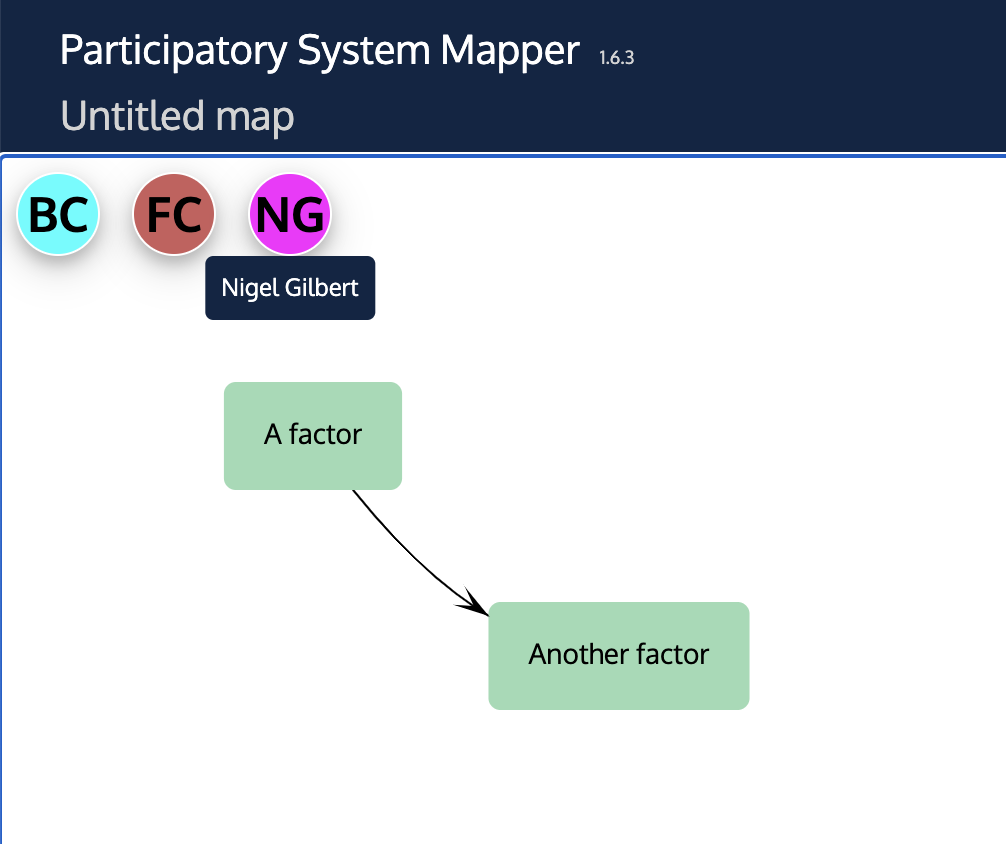
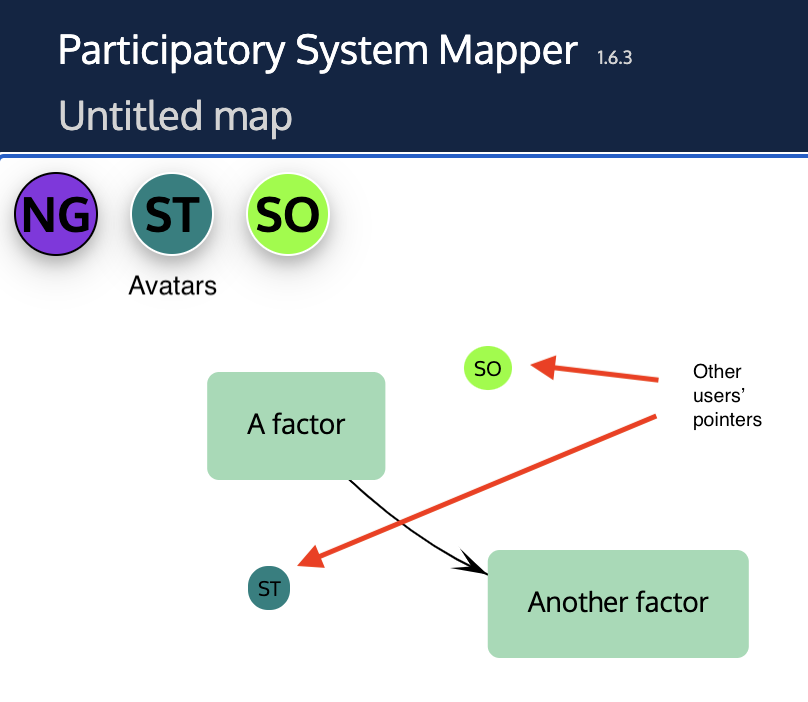
Using grid for help page, and added subsections to contents

diff --git a/html/help.html b/html/help.html
@@ -122,7 +122,7 @@
 <p><img src="/doc/images/WorldCup2019example.png" alt="World Cup 2019 Example" /></p>
 <h2 id="installation">Installation</h2>
 <p>No installation on your computer is needed. The software is a web app, which means that it can be accessed using a web browser by pasting this link into the address bar:</p>
-<p><a href="https://cress.soc.surrey.ac.uk/prsm/prsm.html">https://cress.soc.surrey.ac.uk/prsm/prsm.html</a></p>
+<p><a href="https://prsm.uk/prsm.html">https://prsm.uk/prsm.html</a></p>
 <p>You need a modern web browser such as Chrome, Firefox, Microsoft Edge or Safari. It will not work with Internet Explorer.</p>
 <p>The software is free and available under an <a href="https://choosealicense.com/licenses/mit/">MIT</a> license.</p>
 <h2 id="basic-use">Basic use</h2>
@@ -145,24 +145,27 @@
 <li><strong>Bin</strong>. First, select a factor or a link by clicking on it. Note that the selected factor or link gains a shadow and is listed in the status bar at the bottom of the window. Then click on the Bin button - the factor or link is deleted. The Undo button will restore it if you deleted it by mistake.</li>
 <li><strong>Share</strong>. Shows a dialog box with a web link that you can copy and send to someone else. If they then access that link, they will see your network and can edit and add to it. See <a href="#sharing">Sharing</a> below.</li>
 <li><strong>Open file</strong>. Read in a file containing a network from your computer drive. See <a href="#file-formats">below</a> for supported file formats. The content of the file replaces the network in the browser.</li>
-<li><strong>Save file</strong>. Save the network in a file on your computer. The file is saved in the app's own format, or if you click on the small triangle next to the button, you can choose to save in GML (Graph Markup Language) or CSV (Comma Separated Values) formats.</li>
+<li><strong>Save file</strong>. Save the network in a file on your computer. The file is saved in the app's own format, or if you click on the small triangle next to the button, you can choose to save an image of the map as an a .PNG file, or the map data in GML (Graph Markup Language) or CSV (Comma Separated Values) formats.</li>
+<li><strong>Search</strong>. Search for factors by name.</li>
 <li><strong>Help</strong> Display this help page in a separate window.</li>
 <li><strong>Settings</strong>. Opens a panel that allows much more customisation and exploration of the network (see <a href="#styling-the-map">Styling the map</a> below).</li>
 </ul>
-<p>To select a factor or a link, click on it. To select more than one, click on one factor or link and then <em>hold down</em> the pointer over the other. At the bottom of the window is the status bar, which will show which factors and links have been selected.</p>
+<p>To select a factor or a link, click on it. To select more than one, click on one factor or link and then <em>hold down</em> the pointer over the other. Or you can hold down the control (CTRL) key and click to add to the selection. At the bottom of the window is the status bar, which will show which factors and links have been selected. Clicking anywhere on the background will deselect the factors and links.</p>
 <p>Also at the bottom of the window on the right is a slider that will adjust the magnification: slide to the right to make the factors and links larger and to the left to make them smaller (or click on the + and - signs). To return the network to a size that will fit neatly in the window, double click anywhere on the network background.</p>
+<p>Holding down the Shift key and then moving the mouse pointer will show a 'magnifying glass' with an enlarged view of the part of the map under the pointer. You need to be using a keyboard for this.</p>
 <p>Each node can be moved across the network pane by selecting it and dragging. The whole network can be moved by dragging the background.</p>
 <h3 id="sharing">Sharing</h3>
 <p>If you use the link above to start the app, a new room is created for you. When you click on the share icon, a dialog box is shown that includes the name of the room in the link that is displayed:</p>
 <p><img src="/doc/images/prsm-share.png" alt="Sharing box" /></p>
 <p>Click the button to copy the web link to the clipboard, and then paste the link into an email or a text message. or just tell other participants the name of the room (which is a randomly generated set of 4 groups of three capital letters separated by hyphens). When they access the link, they will see whatever is in your app window.</p>
-<p>When there are others in the room, the initial letter of their name appears in a circle at the top left - their avatar. If you hover the mouse pointer over the circle, their full name is shown (their real name or the name they have been given by the app). If they don't do anything for 15 minutes, the avatar fades and, if they close thier browser window, it disappears.</p>
+<p>There are two options for the sharing link. If you check the 'Clone map' box, the link will be to the map in a new room - any changes made to this new map will <em>not</em> happen in the original room. If you click the 'View only' box, the recipient of the link will not be able to make any changes to the map.</p>
+<h3 id="avatars-and-pointers">Avatars and pointers</h3>
+<p>When there are others in the room, the initial letters of their name appear in a circle at the top left - their <em>avatar</em>. If you hover the mouse pointer over the circle, their full name is shown (their real name or the name they have been given by the app). If they don't do anything for 15 minutes, the avatar fades and, if they close their browser window, it disappears.</p>
+<p>The other users' mouse pointers are shown on the map. As you move your mouse pointer (or finger on a touchscreen), a small disc containing your initials moves on every other users' map correspondingly. If you are talking with other users by audio or video link, you can use your mouse to point to things of interest, and the other users can see what you are pointing at.</p>
 <!-- ![Avatars](/doc/images/avatars.png) -->
 
 <img src="/doc/images/avatars.png" width="400">
 
-<p>If you wnat to show someone a map, but don't want them to alter it in any way, send them the link with <code>&amp;viewing</code> appended, for instance:</p>
-<p><a href="https://cress.soc.surrey.ac.uk/prsm/prsm.html?room=CPC-AJH-UQP-ZWP&amp;viewing">https://cress.soc.surrey.ac.uk/prsm/prsm.html?room=CPC-AJH-UQP-ZWP&amp;viewing</a></p>
 <h3 id="using-the-mouse-and-touch">Using the mouse and touch</h3>
 <p>You can use the following mouse actions (or finger or pencil gestures on a tablet):</p>
 <ul>
@@ -173,6 +176,9 @@
 <li>a <em>click</em> on the background de-selects all factors and links.</li>
 <li><em>dragging</em> the background moves the whole map.</li>
 <li>a <em>double-click</em> on the background zooms the whole map in or out so that it neatly fits the window.</li>
+<li>holding down the <em>shift</em> key and moving the mouse shws a loupe or magnifying glass to see small details of the map.</li>
+<li>holding down the <em>option</em> or ALT key and clicking on the background is a shortcut for adding a new factor</li>
+<li>holding down the <em>option</em> or ALT key and clicking on a factor is a shortcut for adding a link - the pointer will becoem a cross and you can then drag from the factor to another factor to create the link.</li>
 </ul>
 <h3 id="formatting-factors-and-links">Formatting factors and links</h3>
 <p>Double clicking on a factor or a link will bring up a small dialog that enables you to change the design of the factor or link - its colour, shape or the label.</p>
@@ -192,16 +198,16 @@
 <p><img src="/doc/images/ChatWindowButton.gif" alt="Chat Window Button" /></p>
 <h3 id="file-formats">File formats</h3>
 <p>The app can read files in its native format (files with the suffix '.prsm'), or in <a href="http://graphml.graphdrawing.org/">GRAPHML</a> (.graphml), <a href="https://en.wikipedia.org/wiki/Graph_Modelling_Language">GML</a> (.gml) or <a href="https://en.wikipedia.org/wiki/Comma-separated_values">Comma Separated Values</a> (.csv) formats. A CSV file must contain a two columns of values. Each row represents a link. In the first column is the label of the factor from which the link points, and in the second column is the label of the factor the link is pointing to. This very simple format is designed to allow straightforward imports from other software. Optionally, the third and fourth columns may contain an integer between 1 and 9 - if they do, the factor is styled with that style (styles are numbered from top left to bottm right as shown on the <a href="#factors-tab">Factors tab</a>). The fifth column may contain the style number for the link.</p>
-<p>The app can create output files in the app's own native format, as a GML file or as a CSV file.</p>
+<p>The app can create output files in the app's own native format, as a GML file or as a CSV file. You can also save an image of the map as a Portable Network Graphics (.png) file. The image shows the same view of the map as you see on the screen (so, for example, it will not show factors that have been moved out of the app window).</p>
 <h3 id="privacy-and-security">Privacy and security</h3>
 <p>The only way to join the room and see the network is by using the randomly generated room name, and the chances of finding that name by trial and error is very, very small. The network is not stored on any server (there is a central server, but this is only used to broadcast encoded messages from one participant in a room to another). The server is located in Europe.</p>
 <h2 id="styling-the-map">Styling the map</h2>
-<p>The view you see when you first open the app is intentionally very simple, but hidden away are many more features. To access these, click on the last, Settings, button on the top bar: <!-- ![Settings Button](/doc/images/SettingsButton.png) --><img src="/doc/images/SettingsButton.png" width="20">. This will reveal a set of three tabs: Network, Factors and Links, with the Factors tab open.</p>
-<p>The panel showing the tabs can moved across the network pane: just drag any of the three tabs and they and the panel below will move. This can be useful if the panel gets in the way of seeing the network.</p>
+<p>The view you see when you first open the app is intentionally very simple, but hidden away are many more features. To access these, click on the last, Settings, button on the top bar: <!-- ![Settings Button](/doc/images/SettingsButton.png) --><img src="/doc/images/SettingsButton.png" style="display: inline" width="20">. This will reveal a set of three tabs: Network, Factors and Links, with the Factors tab open.</p>
+<p>The panel showing the tabs can moved across the network pane: drag it using the thin black strip at the top of the panel. This can be useful if the panel gets in the way of seeing the network.</p>
 <h3 id="factors-tab">Factors tab</h3>
 <!-- ![FactorsWindow](/doc/images/FactorsPanel.png) -->
 
-<img src="/doc/images/FactorsPanel.png" width="300">
+<img src="/doc/images/FactorsPanel.png" width="250">
 
 <p>Here there are 9 sample styles for how factors can look. If you select a factor from the network and then click on one of the 9 styles, the factor will change to resemble the style. As a short cut, if you click on the 'Select all factors' button at the bottom, and then click on a style, all the factors will change to the chosen style.</p>
 <p>Double clicking on any of the 9 styles opens a dialog box to change the style:</p>
@@ -225,7 +231,7 @@
 <img src="/doc/images/LinksPanel.png" width="300">
 
 <h3 id="network-tab">Network tab</h3>
-<p>The network tab enables you to change many aspects of the network visualisation.</p>
+<p>The Network tab enables you to change many aspects of the network visualisation.</p>
 <!-- ![NetworkPanel](/doc/images/NetworkPanel.png) -->
 
 <img src="/doc/images/NetworkPanel.png" width="300">
@@ -283,7 +289,7 @@
 <script>
 window.addEventListener('load', () => {
     const content = document.querySelector('#contents');
-    scrollnav.init(content);
+    scrollnav.init(content, {subSections: 'h3'});
 });
 </script>
 </body>

diff --git a/doc/help.css b/doc/help.css
@@ -15,27 +15,34 @@ body {
 	font-family: Oxygen, sans-serif;
 	line-height: 1.5;
 	max-width: 1200px;
+	display: grid;
+	grid-template-columns: 230px 1fr;
+
 }
 figcaption {
 	display: none;
 }
 img {
+	display: block;
 	max-width: 800px;
+	margin: 0 auto;
 }
 .title {
 	display: none;
 }
 .contents {
+	grid-column: 2;
 	padding: 20px;
-	margin-left: 230px;
 }
 .contents a {
 	color: black;
 }
 code {
-	font-size: x-large;
+	font-size: large;
 }
 .scroll-nav {
+	grid-column: 1;
+	align-self: start;
 	background-color: #f8f9fa;
 	border: 1px solid #a2a9b1;
 	padding: 15px 10px;
@@ -62,7 +69,7 @@ code {
 		max-width: 600px;
 	}
 }
-.scroll-nav__list {
+.scroll-nav__list, .scroll-nav__sub-list {
 	margin: 0;
 	padding-left: 1.4em;
 	list-style-type: none;
@@ -72,11 +79,15 @@ code {
 	margin-bottom: 5px;
 }
 
+.scroll-nav__sub-item {
+	font-size: smaller;
+}
+
 .scroll-nav__item--active {
 	font-weight: 600;
 	position: relative;
 }
-.scroll-nav__item--active:before {
+/* .scroll-nav__item--active:before {
 	content: '';
 	display: block;
 	width: 14px;
@@ -85,9 +96,9 @@ code {
 	position: absolute;
 	left: -20px;
 	top: 2px;
-}
+} */
 
-.scroll-nav__link {
+.scroll-nav__link, .scroll-nav__sub-link {
 	color: #0645ad;
 	text-decoration: none;
 	overflow-wrap: break-word;

diff --git a/js/prsm.js b/js/prsm.js
@@ -3477,6 +3477,8 @@ function showAvatars() {
 				if (nameRec.asleep) cursorDiv.style.display = 'none';
 				if (cursorDiv.innerText != shortName)
 					cursorDiv.innerText = shortName;
+				if (cursorDiv.style.backgroundColor != nameRec.color)
+				cursorDiv.style.backgroundColor = nameRec.color
 			}
 			currentCursors.push(cursorDiv);
 		}

diff --git a/doc/scrollNav.html b/doc/scrollNav.html
@@ -3,6 +3,6 @@
 <script>
 window.addEventListener('load', () => {
     const content = document.querySelector('#contents');
-    scrollnav.init(content);
+    scrollnav.init(content, {subSections: 'h3'});
 });
 </script>

diff --git a/doc/help.md b/doc/help.md
@@ -78,12 +78,12 @@ This what they do, from left to right:
 * **Bin**. First, select a factor or a link by clicking on it.  Note that the selected factor or link gains a shadow and is listed in the status bar at the bottom of the window. Then click on the Bin button - the factor or link is deleted.  The Undo button will restore it if you deleted it by mistake.
 * **Share**. Shows a dialog box with a web link that you can copy and send to someone else.  If they then access that link, they will see your network and can edit and add to it. See [Sharing](#sharing) below.
 * **Open file**. Read in a file containing a network from your computer drive.  See [below](#file-formats) for supported file formats.  The content of the file replaces the network in the browser.
-* **Save file**.  Save the network in a file on your computer. The file is saved in the app's own format, or if you click on the small triangle next to the button, you can choose to save in GML (Graph Markup Language) or CSV (Comma Separated Values) formats.
+* **Save file**.  Save the network in a file on your computer. The file is saved in the app's own format, or if you click on the small triangle next to the button, you can choose to save an image of the map as an a .PNG file, or the map data in GML (Graph Markup Language) or CSV (Comma Separated Values) formats.
 * **Search**. Search for factors by name.
 * **Help** Display this help page in a separate window.
 * **Settings**. Opens a panel that allows much more customisation and exploration of the network (see [Styling the map](#styling-the-map) below).
 
-To select a factor or a link, click on it. To select more than one, click on one factor or link and then *hold down* the pointer over the other.  At the bottom of the window is the status bar, which will show which factors and links have been selected. Clicking anywhere on the background will deselect the factors and links.
+To select a factor or a link, click on it. To select more than one, click on one factor or link and then *hold down* the pointer over the other.  Or you can hold down the control (CTRL) key and click  to add to the selection. At the bottom of the window is the status bar, which will show which factors and links have been selected. Clicking anywhere on the background will deselect the factors and links.
 
 Also at the bottom of the window on the right is a slider that will adjust the magnification: slide to the right to make the factors and links larger and to the left to make them smaller (or click on the + and - signs).  To return the network to a size that will fit neatly in the window, double click anywhere on the network background.
 
@@ -99,13 +99,13 @@ If you use the link above to start the app, a new room is created for you.  When
 
 Click the button to copy the web link to the clipboard, and then paste the link into an email or a text message. or just tell other participants the name of the room (which is a randomly generated set of 4 groups of three capital letters separated by hyphens).  When they access the link, they will see whatever is in your app window.
 
-There are two options for the sharing link.  If you check the Clone map box, the link will be to the map in a new room - any changes made to this new map will *not* happen in the original room.  If you click the View only box, the recipient of the link will not be able to make any changes to the map.
+There are two options for the sharing link.  If you check the 'Clone map' box, the link will be to the map in a new room - any changes made to this new map will *not* happen in the original room.  If you click the 'View only' box, the recipient of the link will not be able to make any changes to the map.
 
 ### Avatars and pointers
 
-When there are others in the room, the initial letters of their name appear in a circle at the top left - their avatar.  If you hover the mouse pointer over the circle, their full name is shown (their real name or the name they have been given by the app).  If they don't do anything for 15 minutes, the avatar fades and, if they close their browser window, it disappears.
+When there are others in the room, the initial letters of their name appear in a circle at the top left - their *avatar*.  If you hover the mouse pointer over the circle, their full name is shown (their real name or the name they have been given by the app).  If they don't do anything for 15 minutes, the avatar fades and, if they close their browser window, it disappears.
 
-The other users' mouse pointers are shown on the map.  As they move their mice, a small disc containing thier initials moves on every users' map correspondingly.  If you are taling with other users by audio or video link, you can use your mouse to point to things of interest, and the other users can see what you are pointing at.
+The other users' mouse pointers are shown on the map.  As you move your mouse pointer (or finger on a touchscreen), a small disc containing your initials moves on every other users' map correspondingly.  If you are talking with other users by audio or video link, you can use your mouse to point to things of interest, and the other users can see what you are pointing at.
 
 <!-- ![Avatars](/doc/images/avatars.png) -->
 <img src="/doc/images/avatars.png" width="400">
@@ -121,6 +121,9 @@ You can use the following mouse actions (or finger or pencil gestures on a table
 * a *click* on the background de-selects all factors and links.
 * *dragging* the background moves the whole map.
 * a *double-click* on the background zooms the whole map in or out so that it neatly fits the window.
+* holding down the *shift* key and moving the mouse shws a loupe or magnifying glass to see small details of the map.
+* holding down the *option* or ALT key and clicking on the background is a shortcut for adding a new factor
+* holding down the *option* or ALT key and clicking on a factor is a shortcut for adding a link - the pointer will becoem a cross and you can then drag from the factor to another factor to create the link.
 
 ### Formatting factors and links
 
@@ -148,7 +151,7 @@ If someone has sent you a message but your chat window is closed, the button wil
 
 The app can read files in its native format (files with the suffix '.prsm'), or in [GRAPHML](http://graphml.graphdrawing.org/) (.graphml), [GML](https://en.wikipedia.org/wiki/Graph_Modelling_Language) (.gml) or [Comma Separated Values](https://en.wikipedia.org/wiki/Comma-separated_values) (.csv) formats.  A CSV file must contain a two columns of values.  Each row represents a link. In the first column is the label of the factor from which the link points, and in the second column is the label of the factor the link is pointing to.  This very simple format is designed to allow straightforward imports from other software. Optionally, the third and fourth columns may contain an integer between 1 and 9 - if they do, the factor is styled with that style (styles are numbered from top left to bottm right as shown on the [Factors tab](#factors-tab)).  The fifth column may contain the style number for the link.
 
-The app can create output files in the app's own native format, as a GML file or as a CSV file.
+The app can create output files in the app's own native format, as a GML file or as a CSV file.  You can also save an image of the map as a Portable Network Graphics (.png) file.  The image shows the same view of the map as you see on the screen (so, for example, it will not show factors that have been moved out of the app window).
 
 ### Privacy and security
 
@@ -156,16 +159,16 @@ The only way to join the room and see the network is by using the randomly gener
 
 ## Styling the map
 
-The view you see when you first open the app is intentionally very simple, but hidden away are many more features.  To access these, click on the last, Settings, button on the top bar: <!-- ![Settings Button](/doc/images/SettingsButton.png) --><img src="/doc/images/SettingsButton.png" width="20">.  This will reveal a set of three tabs: Network, Factors and Links, with the Factors tab open.
+The view you see when you first open the app is intentionally very simple, but hidden away are many more features.  To access these, click on the last, Settings, button on the top bar: <!-- ![Settings Button](/doc/images/SettingsButton.png) --><img src="/doc/images/SettingsButton.png" style="display: inline" width="20">.  This will reveal a set of three tabs: Network, Factors and Links, with the Factors tab open.
 
-The panel showing the tabs can moved across the network pane: just drag any of the three tabs and they and the panel below will move.  This can be useful if the panel gets in the way of seeing the network.
+The panel showing the tabs can moved across the network pane: drag it using the thin black strip at the top of the panel.  This can be useful if the panel gets in the way of seeing the network.
 
 ### Factors tab
 
 <!-- ![FactorsWindow](/doc/images/FactorsPanel.png) -->
-<img src="/doc/images/FactorsPanel.png" width="300">
+<img src="/doc/images/FactorsPanel.png" width="250">
 
-Here there are 9 sample styles for how factors can look.  If you select a factor from the network and then click on one of the 9 styles, the factor will change to resemble the style.  As a short cut, if you click on the 'Select all factors' button at the bottom, and then click on a style, all the factors will change to the chosen style.
+There are 9 sample styles for how factors can look.  If you select a factor from the network and then click on one of the 9 styles, the factor will change to resemble the style.  As a short cut, if you click on the 'Select all factors' button at the bottom, and then click on a style, all the factors will change to the chosen style.
 
 Double clicking on any of the 9 styles opens a dialog box to change the style:
 
@@ -174,7 +177,7 @@ Double clicking on any of the 9 styles opens a dialog box to change the style:
 
 There are options to change the colour of the background (the 'fill'), the border and the font of the label, to change the shape, for example to a rectangle or a circle, to change the border from solid to dashed or dotted or none, and to change the font size of the label.
 
-You can also change the name of the style.  If you do so, this name will appear on the network pane as one item in the 'legend'.  So, for example, if you had some factors that are Inputs, some that are Actions, some Outputs and some Outcomes, you could give four of the styles these names, colour their fills green, yellow, orange and red, and then apply these styles to the appropriate factors in the network.  The legend will be automatically displayed on the network pane, thus:
+You can also change the name of the style.  If you do so, this name will appear on the network pane as one item in the 'legend'.  So, for example, if you had some factors that are Inputs, some that are Actions, some Outputs and some Outcomes, you could give four of the styles these names, colour their fills green, yellow, orange and red, and then apply these styles to the appropriate factors in the network.  The legend will be automatically displayed on the network pane:
 
 ![Legend](/doc/images/Legend.png)
 
@@ -194,7 +197,7 @@ The Links tab is very similar to the Factors tab, except that it relates to the 
 
 ### Network tab
 
-The network tab enables you to change many aspects of the network visualisation.
+The Network tab enables you to change many aspects of the network visualisation.
 
 <!-- ![NetworkPanel](/doc/images/NetworkPanel.png) -->
 <img src="/doc/images/NetworkPanel.png" width="300">
